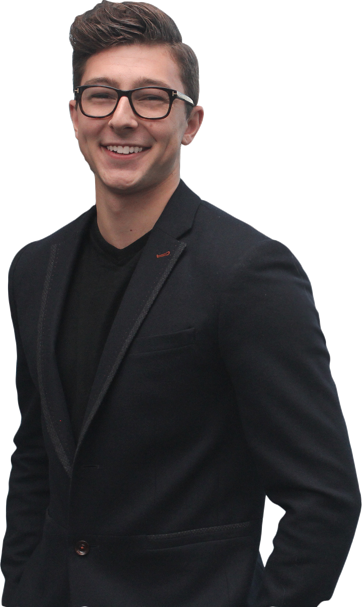
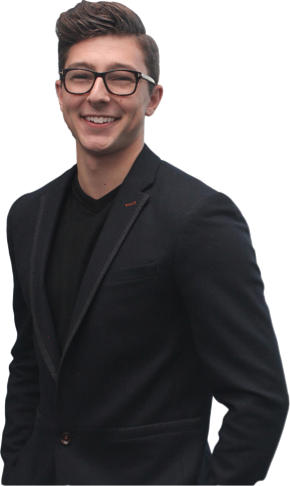
Flex Box Updates

diff --git a/style.css b/style.css
@@ -24,7 +24,7 @@ body{
 }
 
 .section-wrapper{
-  min-height: 90vh;
+  height: 100%;
   max-width: 1200px;
   
   margin: 0 auto;
@@ -36,6 +36,7 @@ body{
 
 header{
   width:100%;
+  position: absolute;
 }
 
 a{
@@ -47,11 +48,11 @@ a{
 }
 
 p{
-  font-size: 14px;
+  font-size: 16px;
   font-weight: 300;
   
   text-rendering: optimizeLegibility;
-  line-height: 25px;
+  line-height: 24px;
   color: #4A4A4A;
 }
 
@@ -67,13 +68,14 @@ h2{
   color: #2BC69E;
 }
 
+.h2-alt{
+  color: white;
+}
+
 h3{
   font-size: 23px;
   color:#4A4A4A;
   font-weight: 300;
-}
-.h2-alt{
-  color: white;
 }
 
 h4{
@@ -83,7 +85,7 @@ h4{
 }
 
 h5{
-  font-size: 16px;
+  font-size: 16.5px;
   font-weight: 300;
   color: #4A4A4A;
   
@@ -112,7 +114,7 @@ button{
   position: relative;
   float: right;
   right: 6.5vw;
-  top:7.5vh;
+  top:55px;
 }
 
 .main-nav ul{
@@ -158,33 +160,34 @@ button{
 }
 
 .main-wrapper{
-
   display: flex;
-  justify-content: center;
-  align-items: flex-end;
-  
-  outline: 2px solid orange;
-  
-  height: 90vh;
+  justify-content: flex-start;
+    
+  height: 705px;
   width: 100%;
+  
+  background-image: url(img/drake-main.png);
+  background-repeat: no-repeat;
+  background-position: bottom right 13.5%;
+  
+  outline: 2px solid red;
 }
 
 .main-intro{  
-  
-  display: flex;
-  align-items: center;
+ display: flex;
+ justify-content: center;
+ align-items: center;
+ padding-left: 10vw;
 }
 
-/*
+
 
 .main-txt{
   max-width: 535px;
   position: relative;
-  left: 8.5vw;
-  top: 32.5vh;
 }
 
-*/
+
 
 .main-txt p{
   max-width:375px;  
@@ -193,12 +196,13 @@ button{
 
 .intro-txt{
   color: #9B9B9B;
-  line-height: 40px;
+  line-height: 35px;
   
   max-width: 475px;
 }
 
 
+/*
 
 .main-drake{
   height:445.5px;
@@ -206,6 +210,7 @@ button{
   margin: 50px 0px 0px 50px;
 }
 
+*/
 
 .about{
   background-color: #2BC69E;
@@ -217,11 +222,13 @@ button{
 }
 
 .about-cnt{
-  min-height: 100vh;
+  max-height: 100vh;
   display: flex;
   flex-direction: column;
   justify-content: center;
   align-items: center;
+  
+  padding: 80px 0px;
   
   color: white;
 }
@@ -239,9 +246,10 @@ button{
   top:45px;
   left: 8.5vw;
   position: relative;
+  display: inline-block;
   
   padding-top: 30px;
-  margin: 0;
+  margin: 0;  
 }
 
 .skills-wrapper{
@@ -252,10 +260,16 @@ button{
 }
 
 .skills-cnt{
-  margin: 20vh auto 0 auto;
+  margin: 0 auto;
   position: relative;
+  display: flex;
+  flex-direction: column;
+  justify-content: center;
+  align-self: center;
   
-  max-width:42.5%;  
+  max-width:42.5%;
+  
+  padding: 10% 0;
 }
 
 .skills-cnt p{
@@ -271,27 +285,32 @@ button{
   align-content: center;
   
   margin-bottom: 25px;
+  
+  padding-left: 80px;
+  
+  min-width: 45%;
 }
 
 .skills-img{
-  display: inline-block;
-  position: absolute;
-  left:-40px;  
-        
-  width: 40px;
+  background-repeat: no-repeat;
+  background-position: top 15px left;
+  background-size: 45px;
 }
 
-.skills-img-1{
-  top:15px;
+.skills-cnt-ux{
+  background-image: url(img/research.png);
 }
 
-.skills-img-2{
-  top:180px;
+.skills-cnt-front{
+  background-image: url(img/code.png);
 }
 
-.skills-img-3{
-  top:305px;
+.skills-cnt-design{
+  background-image: url(img/ux.png);
 }
+
+
+
 
 .portfolio-width{
   margin: 0px auto;
@@ -381,6 +400,8 @@ button{
 .test-wrapper{
   background-color: #2BC69E;
   display: flex;
+  
+  padding: 10% 0;
 }
 
 .test{

diff --git a/index.html b/index.html
@@ -38,9 +38,8 @@
    <h1>Drake Dereniowski.</h1>
    <p class="intro-txt">I’m an User Experience Developer from Canada. I focus on improving user experiences through research and simplicity.</p>
   </div>
-   
-   <img class="main-drake" src="img/drake-main.png">
- </div>
+
+  </div>
  
 </div>
  
@@ -87,21 +86,18 @@
    
    <ul class="skills-cnt">
     
-     <li>
+     <li class="skills-img skills-cnt-ux">
        <h4>UX Research</h4>
        <p>Improving interactions by empathasizing and understanding user needs, to develop effective solutions.
        </p>
-      <img class="skills-img skills-img-1" src="img/research.png">
      </li>  
       
-     <li>
-       <img class="skills-img skills-img-2" src="img/code.png">
+     <li class="skills-img skills-cnt-front">
        <h4>Front End Development</h4>
        <p>Building responsive online platforms using HTML & CSS.</p>
      </li>
       
-      <li>
-       <img class="skills-img skills-img-3" src="img/ux.png">
+      <li class="skills-img skills-cnt-design">
        <h4>UI/UX Design</h4>
        <p>Designing beautiful user interfaces that are simple, consistent and purposeful.</p>
      </li>
